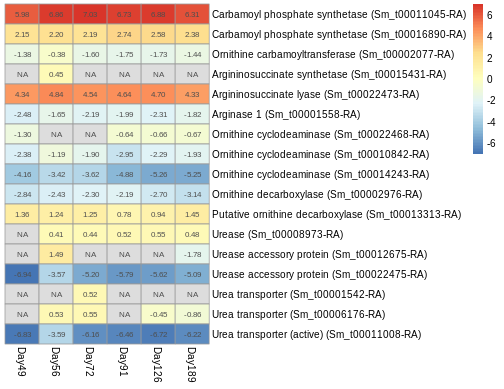
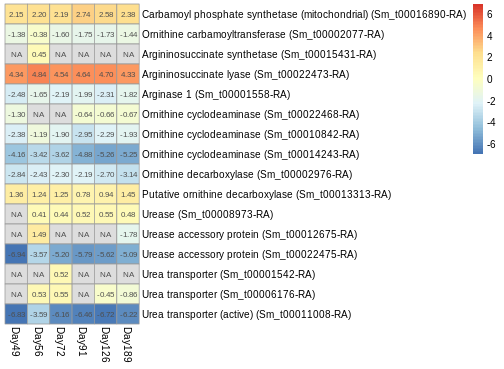
Remove false positive CPS from urea cycle heatmaps

diff --git a/10_FinalResults/README.md b/10_FinalResults/README.md
@@ -88,7 +88,8 @@ The cycle overall seems to be downregulated, with upticks at 56d and 189d
 ### Gluconeogenesis
 **Relevance**: Production of hexoses from pyruvate as fuel for storage carbohydrate synthesis
 
-Seems to be upregulated overall, to varying degrees
+May be _slightly_ upregulated?
+
 * Note: Sm_t00006651-RA _does_ have the lowest average N content in AA sidechains of the three pyruvate kinases identified, after manual correction of indels in the reference
   * 0.307 vs. 0.345/0.341; check whether this is significant
 
@@ -143,8 +144,10 @@ Phosphoribulokinase (Sm_t00022457-RA) is only upregulated at 49d, but quite sign
 * This gene is supposed to be unique to the Calvin cycle, and the sequence appears to be accurate (if anything, the gene model should be extended a little)
 * Why would such a gene be upregulated in darkness?
   * Also requires ATP so would be expending energy this way...
+  * May not be light-regulated
 
 Sedoheptulose-1,7-bisphosphatase (Sm_t00001110-RA) is also upregulated and yet unique to the Calvin cycle
+* May not be light-regulated
 
 _Note: Some of the a-ketoglutarate dehydrogenase E3 predictions may be dihydrolipoyl dehydrogenase
 (i.e. pyruvate dehydrogenase complex E3)_
@@ -168,8 +171,7 @@ _Note: Some of the a-ketoglutarate dehydrogenase E3 predictions may be dihydroli
 
 Parts of the cycle are upregulated at all times, some experience an uptick, others are downregulated
 * Most obviously upregulated (esp. in GF04):
-  * Carbamoyl phosphate synthetase (Sm_t00011045-RA) - cytosolic
-  * Carbamoyl phosphate synthetase (Sm_t00016890-RA) - mitochondrial
+  * **Carbamoyl phosphate synthetase (Sm_t00016890-RA) - mitochondrial, urea cycle**
     * Accumulation of carbamoyl phosphate?
       * Synthesis of pyrimidines?
   * Argininosuccinate lyase (Sm_t00022473-RA)
@@ -179,6 +181,10 @@ Parts of the cycle are upregulated at all times, some experience an uptick, othe
 * Most obviously downregulated (esp. in GF04):
   * Urease accessory protein (Sm_t000022475-RA)
   * Active urea transporter (Sm_t00011008-RA)
+
+Note: Sm_t00011045-RA represents a likely cytosolic carbamoyl phosphate synthetase (with involvement in pyrimidine synthesis),
+and despite being **highly upregulated**, is not included here as it is not involved in the urea cycle
+
 
 * What is the consequence of this regarding accumulation of intermediates?
 
